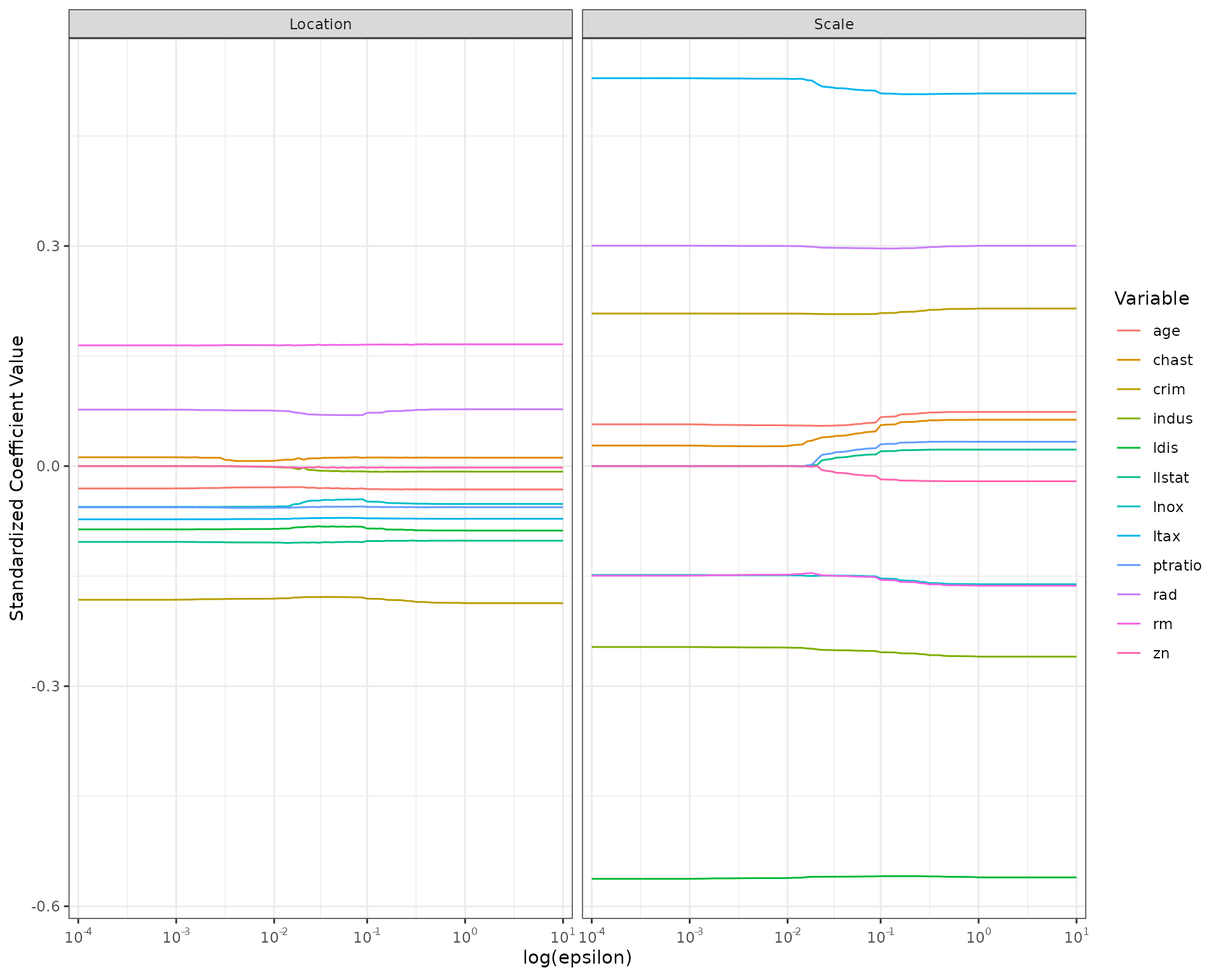
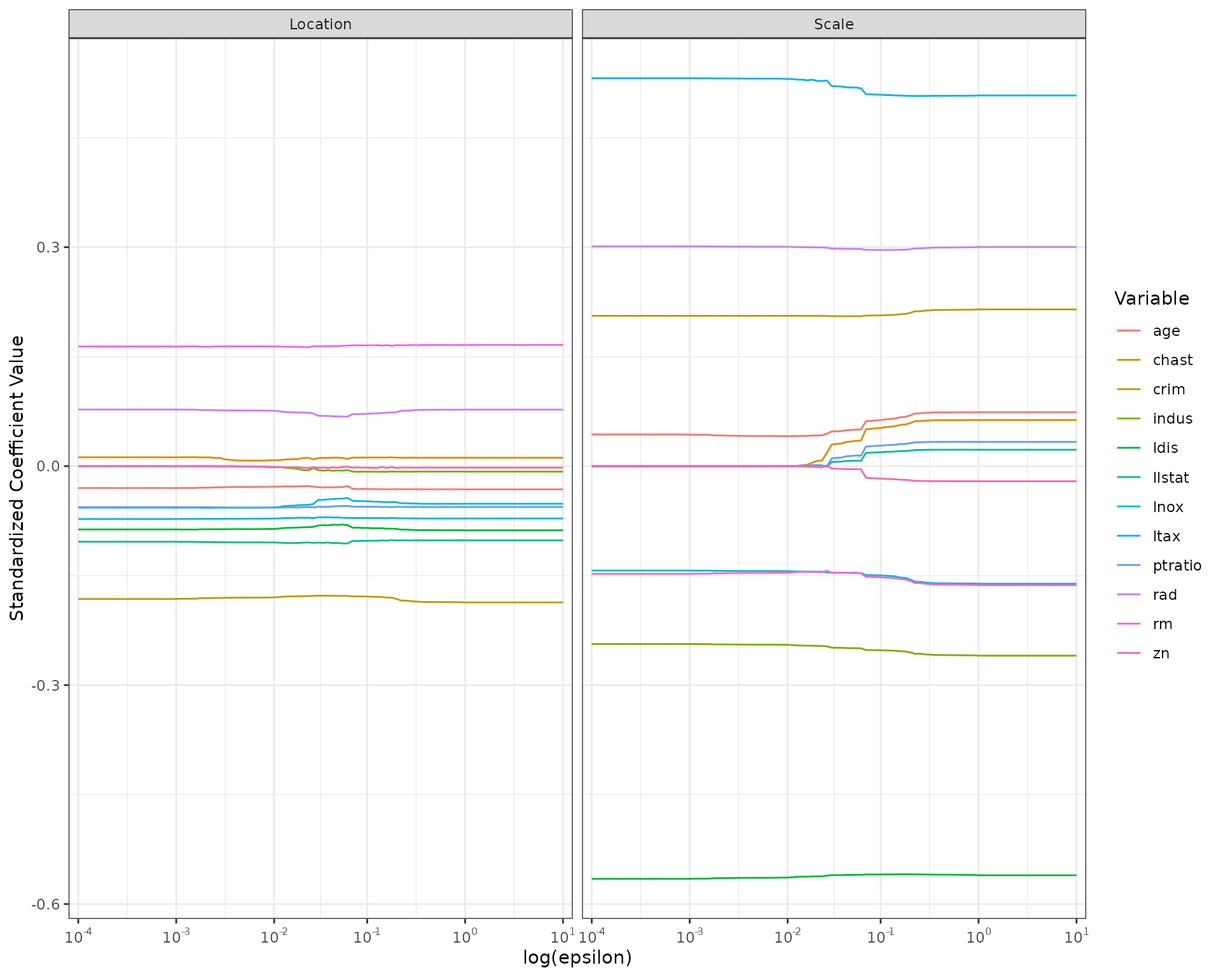
Deploying to gh-pages from @ meadhbh-oneill/smoothic@fb91a2e4ae36edfd9f75e9ffedf8332147a76bd6 🚀

diff --git a/reference/predict.smoothic.html b/reference/predict.smoothic.html
@@ -99,131 +99,131 @@ of a call to <code><a href="smoothic.html">smoothic</a></code>.</p></dd>
 <span class="r-in"><span><span class="op">)</span></span></span>
 <span class="r-in"><span><span class="fu"><a href="https://rdrr.io/r/stats/predict.html" class="external-link">predict</a></span><span class="op">(</span><span class="va">results</span><span class="op">)</span></span></span>
 <span class="r-out co"><span class="r-pr">#&gt;</span>           mu        s</span>
-<span class="r-out co"><span class="r-pr">#&gt;</span> 1   23.76345 1.060816</span>
-<span class="r-out co"><span class="r-pr">#&gt;</span> 2   26.10793 2.071384</span>
-<span class="r-out co"><span class="r-pr">#&gt;</span> 3   27.55003 3.139367</span>
-<span class="r-out co"><span class="r-pr">#&gt;</span> 4   26.91465 2.702051</span>
-<span class="r-out co"><span class="r-pr">#&gt;</span> 5   26.34235 1.846596</span>
-<span class="r-out co"><span class="r-pr">#&gt;</span> 6   22.95108 1.598818</span>
-<span class="r-out co"><span class="r-pr">#&gt;</span> 7   21.86429 1.702663</span>
-<span class="r-out co"><span class="r-pr">#&gt;</span> 8   22.24308 1.750391</span>
-<span class="r-out co"><span class="r-pr">#&gt;</span> 9   25.79568 3.277637</span>
-<span class="r-out co"><span class="r-pr">#&gt;</span> 10  24.70280 3.504933</span>
-<span class="r-out co"><span class="r-pr">#&gt;</span> 11  25.11508 3.693324</span>
-<span class="r-out co"><span class="r-pr">#&gt;</span> 12  24.90677 4.228457</span>
-<span class="r-out co"><span class="r-pr">#&gt;</span> 13  27.57178 3.383851</span>
-<span class="r-out co"><span class="r-pr">#&gt;</span> 14  27.58482 2.966560</span>
-<span class="r-out co"><span class="r-pr">#&gt;</span> 15  27.46392 3.006551</span>
-<span class="r-out co"><span class="r-pr">#&gt;</span> 16  28.32327 3.563724</span>
-<span class="r-out co"><span class="r-pr">#&gt;</span> 17  21.28675 1.895099</span>
-<span class="r-out co"><span class="r-pr">#&gt;</span> 18  21.13106 1.812994</span>
-<span class="r-out co"><span class="r-pr">#&gt;</span> 19  20.42176 1.779589</span>
-<span class="r-out co"><span class="r-pr">#&gt;</span> 20  20.78706 1.771232</span>
-<span class="r-out co"><span class="r-pr">#&gt;</span> 21  32.27688 3.542525</span>
-<span class="r-out co"><span class="r-pr">#&gt;</span> 22  32.77657 3.512174</span>
-<span class="r-out co"><span class="r-pr">#&gt;</span> 23  33.58068 3.572284</span>
-<span class="r-out co"><span class="r-pr">#&gt;</span> 24  33.81074 3.493794</span>
-<span class="r-out co"><span class="r-pr">#&gt;</span> 25  33.81074 3.493794</span>
-<span class="r-out co"><span class="r-pr">#&gt;</span> 26  33.81074 3.493794</span>
-<span class="r-out co"><span class="r-pr">#&gt;</span> 27  32.22643 4.276358</span>
-<span class="r-out co"><span class="r-pr">#&gt;</span> 28  31.91591 3.762063</span>
-<span class="r-out co"><span class="r-pr">#&gt;</span> 29  31.68586 3.619097</span>
-<span class="r-out co"><span class="r-pr">#&gt;</span> 30  32.78613 3.618749</span>
-<span class="r-out co"><span class="r-pr">#&gt;</span> 31  32.69872 3.935147</span>
-<span class="r-out co"><span class="r-pr">#&gt;</span> 32  32.61131 4.246725</span>
-<span class="r-out co"><span class="r-pr">#&gt;</span> 33  32.23252 3.656777</span>
-<span class="r-out co"><span class="r-pr">#&gt;</span> 34  32.46258 3.801232</span>
-<span class="r-out co"><span class="r-pr">#&gt;</span> 35  31.84894 4.138479</span>
-<span class="r-out co"><span class="r-pr">#&gt;</span> 36  32.12467 3.533120</span>
-<span class="r-out co"><span class="r-pr">#&gt;</span> 37  31.76762 3.848289</span>
-<span class="r-out co"><span class="r-pr">#&gt;</span> 38  30.79564 3.908630</span>
-<span class="r-out co"><span class="r-pr">#&gt;</span> 39  31.63933 3.703605</span>
-<span class="r-out co"><span class="r-pr">#&gt;</span> 40  31.86938 3.849909</span>
-<span class="r-out co"><span class="r-pr">#&gt;</span> 41  32.42300 3.530345</span>
-<span class="r-out co"><span class="r-pr">#&gt;</span> 42  32.65306 3.669805</span>
-<span class="r-out co"><span class="r-pr">#&gt;</span> 43  31.82981 3.917915</span>
-<span class="r-out co"><span class="r-pr">#&gt;</span> 44  31.47146 3.572462</span>
-<span class="r-out co"><span class="r-pr">#&gt;</span> 45  24.08313 2.048031</span>
-<span class="r-out co"><span class="r-pr">#&gt;</span> 46  23.41557 2.216904</span>
-<span class="r-out co"><span class="r-pr">#&gt;</span> 47  25.71049 2.105657</span>
-<span class="r-out co"><span class="r-pr">#&gt;</span> 48  21.94172 3.770360</span>
-<span class="r-out co"><span class="r-pr">#&gt;</span> 49  20.52267 3.203077</span>
-<span class="r-out co"><span class="r-pr">#&gt;</span> 50  30.28291 3.716949</span>
-<span class="r-out co"><span class="r-pr">#&gt;</span> 51  30.93219 3.867892</span>
-<span class="r-out co"><span class="r-pr">#&gt;</span> 52  30.95263 3.853611</span>
-<span class="r-out co"><span class="r-pr">#&gt;</span> 53  31.52669 3.947007</span>
-<span class="r-out co"><span class="r-pr">#&gt;</span> 54  32.08640 3.860373</span>
-<span class="r-out co"><span class="r-pr">#&gt;</span> 55  31.61410 3.713585</span>
-<span class="r-out co"><span class="r-pr">#&gt;</span> 56  31.18269 4.005841</span>
-<span class="r-out co"><span class="r-pr">#&gt;</span> 57  42.78604 4.536706</span>
-<span class="r-out co"><span class="r-pr">#&gt;</span> 58  41.96410 6.291468</span>
-<span class="r-out co"><span class="r-pr">#&gt;</span> 59  43.64192 2.072561</span>
-<span class="r-out co"><span class="r-pr">#&gt;</span> 60  44.56214 2.419973</span>
-<span class="r-out co"><span class="r-pr">#&gt;</span> 61  51.97569 6.996274</span>
-<span class="r-out co"><span class="r-pr">#&gt;</span> 62  53.09727 7.285241</span>
-<span class="r-out co"><span class="r-pr">#&gt;</span> 63  53.09727 7.285241</span>
-<span class="r-out co"><span class="r-pr">#&gt;</span> 64  53.09727 7.285241</span>
-<span class="r-out co"><span class="r-pr">#&gt;</span> 65  51.61256 7.651830</span>
-<span class="r-out co"><span class="r-pr">#&gt;</span> 66  52.16008 7.545797</span>
-<span class="r-out co"><span class="r-pr">#&gt;</span> 67  32.78004 4.384806</span>
-<span class="r-out co"><span class="r-pr">#&gt;</span> 68  30.15939 4.320996</span>
-<span class="r-out co"><span class="r-pr">#&gt;</span> 69  30.73214 3.733331</span>
-<span class="r-out co"><span class="r-pr">#&gt;</span> 70  30.24680 4.065457</span>
-<span class="r-out co"><span class="r-pr">#&gt;</span> 71  23.85393 2.743848</span>
-<span class="r-out co"><span class="r-pr">#&gt;</span> 72  22.90848 2.765166</span>
-<span class="r-out co"><span class="r-pr">#&gt;</span> 73  41.71838 5.928053</span>
-<span class="r-out co"><span class="r-pr">#&gt;</span> 74  40.64464 5.576902</span>
-<span class="r-out co"><span class="r-pr">#&gt;</span> 75  38.33754 5.830585</span>
-<span class="r-out co"><span class="r-pr">#&gt;</span> 76  39.64264 7.185713</span>
-<span class="r-out co"><span class="r-pr">#&gt;</span> 77  46.71613 9.164851</span>
-<span class="r-out co"><span class="r-pr">#&gt;</span> 78  47.91077 8.190933</span>
-<span class="r-out co"><span class="r-pr">#&gt;</span> 79  48.22824 7.889800</span>
-<span class="r-out co"><span class="r-pr">#&gt;</span> 80  31.37926 3.851440</span>
-<span class="r-out co"><span class="r-pr">#&gt;</span> 81  31.74370 4.080225</span>
-<span class="r-out co"><span class="r-pr">#&gt;</span> 82  31.23662 3.485963</span>
-<span class="r-out co"><span class="r-pr">#&gt;</span> 83  31.29185 4.156390</span>
-<span class="r-out co"><span class="r-pr">#&gt;</span> 84  30.69735 3.832200</span>
-<span class="r-out co"><span class="r-pr">#&gt;</span> 85  30.35335 4.009693</span>
-<span class="r-out co"><span class="r-pr">#&gt;</span> 86  30.75128 3.796082</span>
-<span class="r-out co"><span class="r-pr">#&gt;</span> 87  30.75128 3.796082</span>
-<span class="r-out co"><span class="r-pr">#&gt;</span> 88  30.83869 3.682123</span>
-<span class="r-out co"><span class="r-pr">#&gt;</span> 89  30.98133 3.946039</span>
-<span class="r-out co"><span class="r-pr">#&gt;</span> 90  30.28029 4.462974</span>
-<span class="r-out co"><span class="r-pr">#&gt;</span> 91  31.12398 4.393100</span>
-<span class="r-out co"><span class="r-pr">#&gt;</span> 92  31.55408 3.514886</span>
-<span class="r-out co"><span class="r-pr">#&gt;</span> 93  32.32341 3.323623</span>
-<span class="r-out co"><span class="r-pr">#&gt;</span> 94  31.37926 3.880900</span>
-<span class="r-out co"><span class="r-pr">#&gt;</span> 95  30.89392 4.226153</span>
-<span class="r-out co"><span class="r-pr">#&gt;</span> 96  30.58341 4.168089</span>
-<span class="r-out co"><span class="r-pr">#&gt;</span> 97  30.36770 4.328995</span>
-<span class="r-out co"><span class="r-pr">#&gt;</span> 98  31.29185 4.156390</span>
-<span class="r-out co"><span class="r-pr">#&gt;</span> 99  31.37926 3.880900</span>
-<span class="r-out co"><span class="r-pr">#&gt;</span> 100 30.26594 4.133790</span>
-<span class="r-out co"><span class="r-pr">#&gt;</span> 101 30.83869 3.682123</span>
-<span class="r-out co"><span class="r-pr">#&gt;</span> 102 30.26594 4.133790</span>
-<span class="r-out co"><span class="r-pr">#&gt;</span> 103 30.75128 3.796082</span>
-<span class="r-out co"><span class="r-pr">#&gt;</span> 104 30.26594 4.133790</span>
-<span class="r-out co"><span class="r-pr">#&gt;</span> 105 30.75128 3.796082</span>
-<span class="r-out co"><span class="r-pr">#&gt;</span> 106 30.66387 4.065551</span>
-<span class="r-out co"><span class="r-pr">#&gt;</span> 107 30.05023 4.293373</span>
-<span class="r-out co"><span class="r-pr">#&gt;</span> 108 30.49600 4.297088</span>
-<span class="r-out co"><span class="r-pr">#&gt;</span> 109 33.30148 4.353311</span>
-<span class="r-out co"><span class="r-pr">#&gt;</span> 110 33.73159 3.456612</span>
-<span class="r-out co"><span class="r-pr">#&gt;</span> 111 33.33366 3.514630</span>
-<span class="r-out co"><span class="r-pr">#&gt;</span> 112 19.45369 2.169892</span>
-<span class="r-out co"><span class="r-pr">#&gt;</span> 113 19.06881 2.119439</span>
-<span class="r-out co"><span class="r-pr">#&gt;</span> 114 18.85311 2.086920</span>
-<span class="r-out co"><span class="r-pr">#&gt;</span> 115 18.46822 2.150076</span>
-<span class="r-out co"><span class="r-pr">#&gt;</span> 116 18.92008 1.911615</span>
-<span class="r-out co"><span class="r-pr">#&gt;</span> 117 18.75830 1.966700</span>
-<span class="r-out co"><span class="r-pr">#&gt;</span> 118 19.04359 2.364395</span>
-<span class="r-out co"><span class="r-pr">#&gt;</span> 119 19.15013 1.987130</span>
-<span class="r-out co"><span class="r-pr">#&gt;</span> 120 18.46822 2.150076</span>
-<span class="r-out co"><span class="r-pr">#&gt;</span> 121 21.29284 2.052320</span>
-<span class="r-out co"><span class="r-pr">#&gt;</span> 122 21.61640 1.938964</span>
-<span class="r-out co"><span class="r-pr">#&gt;</span> 123 22.33789 1.734279</span>
-<span class="r-out co"><span class="r-pr">#&gt;</span> 124 21.44158 1.983800</span>
-<span class="r-out co"><span class="r-pr">#&gt;</span> 125 21.67163 2.062166</span>
+<span class="r-out co"><span class="r-pr">#&gt;</span> 1   23.73024 1.010112</span>
+<span class="r-out co"><span class="r-pr">#&gt;</span> 2   26.07308 2.020696</span>
+<span class="r-out co"><span class="r-pr">#&gt;</span> 3   27.52946 3.135873</span>
+<span class="r-out co"><span class="r-pr">#&gt;</span> 4   26.88822 2.671811</span>
+<span class="r-out co"><span class="r-pr">#&gt;</span> 5   26.31907 1.798780</span>
+<span class="r-out co"><span class="r-pr">#&gt;</span> 6   22.92405 1.565104</span>
+<span class="r-out co"><span class="r-pr">#&gt;</span> 7   21.83871 1.682448</span>
+<span class="r-out co"><span class="r-pr">#&gt;</span> 8   22.22059 1.729886</span>
+<span class="r-out co"><span class="r-pr">#&gt;</span> 9   25.77555 3.299793</span>
+<span class="r-out co"><span class="r-pr">#&gt;</span> 10  24.68304 3.555869</span>
+<span class="r-out co"><span class="r-pr">#&gt;</span> 11  25.09690 3.755235</span>
+<span class="r-out co"><span class="r-pr">#&gt;</span> 12  24.89318 4.347321</span>
+<span class="r-out co"><span class="r-pr">#&gt;</span> 13  27.55603 3.393922</span>
+<span class="r-out co"><span class="r-pr">#&gt;</span> 14  27.56611 2.943488</span>
+<span class="r-out co"><span class="r-pr">#&gt;</span> 15  27.44825 2.986425</span>
+<span class="r-out co"><span class="r-pr">#&gt;</span> 16  28.31262 3.567249</span>
+<span class="r-out co"><span class="r-pr">#&gt;</span> 17  21.26532 1.881589</span>
+<span class="r-out co"><span class="r-pr">#&gt;</span> 18  21.11083 1.797198</span>
+<span class="r-out co"><span class="r-pr">#&gt;</span> 19  20.40271 1.768715</span>
+<span class="r-out co"><span class="r-pr">#&gt;</span> 20  20.76559 1.752554</span>
+<span class="r-out co"><span class="r-pr">#&gt;</span> 21  32.29267 3.548556</span>
+<span class="r-out co"><span class="r-pr">#&gt;</span> 22  32.79240 3.508289</span>
+<span class="r-out co"><span class="r-pr">#&gt;</span> 23  33.59822 3.558374</span>
+<span class="r-out co"><span class="r-pr">#&gt;</span> 24  33.82851 3.466691</span>
+<span class="r-out co"><span class="r-pr">#&gt;</span> 25  33.82851 3.466691</span>
+<span class="r-out co"><span class="r-pr">#&gt;</span> 26  33.82851 3.466691</span>
+<span class="r-out co"><span class="r-pr">#&gt;</span> 27  32.24383 4.315213</span>
+<span class="r-out co"><span class="r-pr">#&gt;</span> 28  31.93057 3.756791</span>
+<span class="r-out co"><span class="r-pr">#&gt;</span> 29  31.70028 3.609989</span>
+<span class="r-out co"><span class="r-pr">#&gt;</span> 30  32.80462 3.601584</span>
+<span class="r-out co"><span class="r-pr">#&gt;</span> 31  32.71875 3.943520</span>
+<span class="r-out co"><span class="r-pr">#&gt;</span> 32  32.63288 4.282463</span>
+<span class="r-out co"><span class="r-pr">#&gt;</span> 33  32.25100 3.650248</span>
+<span class="r-out co"><span class="r-pr">#&gt;</span> 34  32.48129 3.798688</span>
+<span class="r-out co"><span class="r-pr">#&gt;</span> 35  31.86661 4.165089</span>
+<span class="r-out co"><span class="r-pr">#&gt;</span> 36  32.14322 3.516922</span>
+<span class="r-out co"><span class="r-pr">#&gt;</span> 37  31.78791 3.857758</span>
+<span class="r-out co"><span class="r-pr">#&gt;</span> 38  30.81325 3.931877</span>
+<span class="r-out co"><span class="r-pr">#&gt;</span> 39  31.65822 3.701174</span>
+<span class="r-out co"><span class="r-pr">#&gt;</span> 40  31.88851 3.851684</span>
+<span class="r-out co"><span class="r-pr">#&gt;</span> 41  32.44214 3.499551</span>
+<span class="r-out co"><span class="r-pr">#&gt;</span> 42  32.67243 3.641862</span>
+<span class="r-out co"><span class="r-pr">#&gt;</span> 43  31.84936 3.917426</span>
+<span class="r-out co"><span class="r-pr">#&gt;</span> 44  31.48939 3.552484</span>
+<span class="r-out co"><span class="r-pr">#&gt;</span> 45  24.09821 2.044922</span>
+<span class="r-out co"><span class="r-pr">#&gt;</span> 46  23.42964 2.228225</span>
+<span class="r-out co"><span class="r-pr">#&gt;</span> 47  25.72710 2.093945</span>
+<span class="r-out co"><span class="r-pr">#&gt;</span> 48  21.96205 3.943120</span>
+<span class="r-out co"><span class="r-pr">#&gt;</span> 49  20.53689 3.326342</span>
+<span class="r-out co"><span class="r-pr">#&gt;</span> 50  30.30344 3.731401</span>
+<span class="r-out co"><span class="r-pr">#&gt;</span> 51  30.95050 3.871732</span>
+<span class="r-out co"><span class="r-pr">#&gt;</span> 52  30.97240 3.856205</span>
+<span class="r-out co"><span class="r-pr">#&gt;</span> 53  31.54793 3.949035</span>
+<span class="r-out co"><span class="r-pr">#&gt;</span> 54  32.10873 3.854965</span>
+<span class="r-out co"><span class="r-pr">#&gt;</span> 55  31.63380 3.696948</span>
+<span class="r-out co"><span class="r-pr">#&gt;</span> 56  31.20269 4.013020</span>
+<span class="r-out co"><span class="r-pr">#&gt;</span> 57  42.84352 4.554228</span>
+<span class="r-out co"><span class="r-pr">#&gt;</span> 58  42.02511 6.488188</span>
+<span class="r-out co"><span class="r-pr">#&gt;</span> 59  43.69563 1.982669</span>
+<span class="r-out co"><span class="r-pr">#&gt;</span> 60  44.61680 2.325386</span>
+<span class="r-out co"><span class="r-pr">#&gt;</span> 61  52.03959 6.908159</span>
+<span class="r-out co"><span class="r-pr">#&gt;</span> 62  53.16157 7.172456</span>
+<span class="r-out co"><span class="r-pr">#&gt;</span> 63  53.16157 7.172456</span>
+<span class="r-out co"><span class="r-pr">#&gt;</span> 64  53.16157 7.172456</span>
+<span class="r-out co"><span class="r-pr">#&gt;</span> 65  51.67710 7.596182</span>
+<span class="r-out co"><span class="r-pr">#&gt;</span> 66  52.22355 7.451545</span>
+<span class="r-out co"><span class="r-pr">#&gt;</span> 67  32.80465 4.361844</span>
+<span class="r-out co"><span class="r-pr">#&gt;</span> 68  30.18346 4.347439</span>
+<span class="r-out co"><span class="r-pr">#&gt;</span> 69  30.75434 3.711114</span>
+<span class="r-out co"><span class="r-pr">#&gt;</span> 70  30.26934 4.069920</span>
+<span class="r-out co"><span class="r-pr">#&gt;</span> 71  23.87085 2.761193</span>
+<span class="r-out co"><span class="r-pr">#&gt;</span> 72  22.92527 2.796120</span>
+<span class="r-out co"><span class="r-pr">#&gt;</span> 73  41.78262 6.034589</span>
+<span class="r-out co"><span class="r-pr">#&gt;</span> 74  40.70736 5.672669</span>
+<span class="r-out co"><span class="r-pr">#&gt;</span> 75  38.39555 5.966792</span>
+<span class="r-out co"><span class="r-pr">#&gt;</span> 76  39.70577 7.418645</span>
+<span class="r-out co"><span class="r-pr">#&gt;</span> 77  46.78290 9.296929</span>
+<span class="r-out co"><span class="r-pr">#&gt;</span> 78  47.97602 8.198046</span>
+<span class="r-out co"><span class="r-pr">#&gt;</span> 79  48.29218 7.856191</span>
+<span class="r-out co"><span class="r-pr">#&gt;</span> 80  31.40100 3.837960</span>
+<span class="r-out co"><span class="r-pr">#&gt;</span> 81  31.76815 4.084929</span>
+<span class="r-out co"><span class="r-pr">#&gt;</span> 82  31.25658 3.452563</span>
+<span class="r-out co"><span class="r-pr">#&gt;</span> 83  31.31513 4.167830</span>
+<span class="r-out co"><span class="r-pr">#&gt;</span> 84  30.71769 3.825398</span>
+<span class="r-out co"><span class="r-pr">#&gt;</span> 85  30.37246 4.017731</span>
+<span class="r-out co"><span class="r-pr">#&gt;</span> 86  30.77158 3.786371</span>
+<span class="r-out co"><span class="r-pr">#&gt;</span> 87  30.77158 3.786371</span>
+<span class="r-out co"><span class="r-pr">#&gt;</span> 88  30.85745 3.663526</span>
+<span class="r-out co"><span class="r-pr">#&gt;</span> 89  31.00187 3.940346</span>
+<span class="r-out co"><span class="r-pr">#&gt;</span> 90  30.30132 4.502252</span>
+<span class="r-out co"><span class="r-pr">#&gt;</span> 91  31.14629 4.416458</span>
+<span class="r-out co"><span class="r-pr">#&gt;</span> 92  31.57275 3.476394</span>
+<span class="r-out co"><span class="r-pr">#&gt;</span> 93  32.34192 3.265166</span>
+<span class="r-out co"><span class="r-pr">#&gt;</span> 94  31.40100 3.869737</span>
+<span class="r-out co"><span class="r-pr">#&gt;</span> 95  30.91600 4.243878</span>
+<span class="r-out co"><span class="r-pr">#&gt;</span> 96  30.60275 4.181114</span>
+<span class="r-out co"><span class="r-pr">#&gt;</span> 97  30.38719 4.356182</span>
+<span class="r-out co"><span class="r-pr">#&gt;</span> 98  31.31513 4.167830</span>
+<span class="r-out co"><span class="r-pr">#&gt;</span> 99  31.40100 3.869737</span>
+<span class="r-out co"><span class="r-pr">#&gt;</span> 100 30.28658 4.152452</span>
+<span class="r-out co"><span class="r-pr">#&gt;</span> 101 30.85745 3.663526</span>
+<span class="r-out co"><span class="r-pr">#&gt;</span> 102 30.28658 4.152452</span>
+<span class="r-out co"><span class="r-pr">#&gt;</span> 103 30.77158 3.786371</span>
+<span class="r-out co"><span class="r-pr">#&gt;</span> 104 30.28658 4.152452</span>
+<span class="r-out co"><span class="r-pr">#&gt;</span> 105 30.77158 3.786371</span>
+<span class="r-out co"><span class="r-pr">#&gt;</span> 106 30.68571 4.078042</span>
+<span class="r-out co"><span class="r-pr">#&gt;</span> 107 30.07103 4.326320</span>
+<span class="r-out co"><span class="r-pr">#&gt;</span> 108 30.51687 4.321314</span>
+<span class="r-out co"><span class="r-pr">#&gt;</span> 109 33.32375 4.371754</span>
+<span class="r-out co"><span class="r-pr">#&gt;</span> 110 33.75021 3.412948</span>
+<span class="r-out co"><span class="r-pr">#&gt;</span> 111 33.35108 3.475222</span>
+<span class="r-out co"><span class="r-pr">#&gt;</span> 112 19.44203 2.183341</span>
+<span class="r-out co"><span class="r-pr">#&gt;</span> 113 19.05297 2.128661</span>
+<span class="r-out co"><span class="r-pr">#&gt;</span> 114 18.83742 2.093408</span>
+<span class="r-out co"><span class="r-pr">#&gt;</span> 115 18.44837 2.162247</span>
+<span class="r-out co"><span class="r-pr">#&gt;</span> 116 18.90138 1.903827</span>
+<span class="r-out co"><span class="r-pr">#&gt;</span> 117 18.73972 1.963306</span>
+<span class="r-out co"><span class="r-pr">#&gt;</span> 118 19.02856 2.386402</span>
+<span class="r-out co"><span class="r-pr">#&gt;</span> 119 19.13168 1.981247</span>
+<span class="r-out co"><span class="r-pr">#&gt;</span> 120 18.44837 2.162247</span>
+<span class="r-out co"><span class="r-pr">#&gt;</span> 121 21.27249 2.055202</span>
+<span class="r-out co"><span class="r-pr">#&gt;</span> 122 21.59583 1.932562</span>
+<span class="r-out co"><span class="r-pr">#&gt;</span> 123 22.31829 1.712595</span>
+<span class="r-out co"><span class="r-pr">#&gt;</span> 124 21.42408 1.980963</span>
+<span class="r-out co"><span class="r-pr">#&gt;</span> 125 21.65437 2.061520</span>
 <span class="r-in"><span></span></span>
 </code></pre></div>
     </div>

diff --git a/articles/sgnd-boston.html b/articles/sgnd-boston.html
@@ -115,40 +115,40 @@ criterion.</p>
 <span><span class="co">#&gt; </span></span>
 <span><span class="co">#&gt; Coefficients:</span></span>
 <span><span class="co">#&gt;                      Estimate         SEE        Z    Pvalue    </span></span>
-<span><span class="co">#&gt; intercept_0_beta   3.61044427  0.06216407  58.0793 &lt; 2.2e-16 ***</span></span>
-<span><span class="co">#&gt; crim_1_beta       -0.02118366  0.00521143  -4.0648 5.523e-05 ***</span></span>
+<span><span class="co">#&gt; intercept_0_beta   3.61042411  0.06909363  52.2541 &lt; 2.2e-16 ***</span></span>
+<span><span class="co">#&gt; crim_1_beta       -0.02115800  0.00516411  -4.0971 5.023e-05 ***</span></span>
 <span><span class="co">#&gt; zn_2_beta                   0           0        0         0    </span></span>
 <span><span class="co">#&gt; indus_3_beta                0           0        0         0    </span></span>
-<span><span class="co">#&gt; rm_4_beta          0.23432703  0.01005602  23.3022 &lt; 2.2e-16 ***</span></span>
-<span><span class="co">#&gt; age_5_beta        -0.00108287  0.00034126  -3.1731 0.0010159 ** </span></span>
-<span><span class="co">#&gt; rad_6_beta         0.00883987  0.00230240   3.8394 0.0001196 ***</span></span>
-<span><span class="co">#&gt; ptratio_7_beta    -0.02595343  0.00259781  -9.9905 &lt; 2.2e-16 ***</span></span>
-<span><span class="co">#&gt; lnox_8_beta       -0.27596384  0.08565991  -3.2216 0.0008743 ***</span></span>
-<span><span class="co">#&gt; ldis_9_beta       -0.15979242  0.02289373  -6.9797 3.827e-10 ***</span></span>
-<span><span class="co">#&gt; ltax_10_beta      -0.18305620  0.01788194 -10.2369 &lt; 2.2e-16 ***</span></span>
-<span><span class="co">#&gt; llstat_11_beta    -0.17189746  0.01754920  -9.7952 &lt; 2.2e-16 ***</span></span>
-<span><span class="co">#&gt; chast_12_beta      0.04742476  0.02044784   2.3193 0.0114398 *  </span></span>
-<span><span class="co">#&gt; intercept_0_alpha -9.65560109  2.33819898  -4.1295 4.404e-05 ***</span></span>
-<span><span class="co">#&gt; crim_1_alpha       0.02418315  0.01595108   1.5161 0.0774511 .  </span></span>
+<span><span class="co">#&gt; rm_4_beta          0.23340587  0.01015929  22.9746 &lt; 2.2e-16 ***</span></span>
+<span><span class="co">#&gt; age_5_beta        -0.00106372  0.00034281  -3.1030 0.0012681 ** </span></span>
+<span><span class="co">#&gt; rad_6_beta         0.00890866  0.00227546   3.9151 9.387e-05 ***</span></span>
+<span><span class="co">#&gt; ptratio_7_beta    -0.02596173  0.00255329 -10.1680 &lt; 2.2e-16 ***</span></span>
+<span><span class="co">#&gt; lnox_8_beta       -0.28248202  0.08211591  -3.4400 0.0004471 ***</span></span>
+<span><span class="co">#&gt; ldis_9_beta       -0.16075627  0.02262858  -7.1041 2.256e-10 ***</span></span>
+<span><span class="co">#&gt; ltax_10_beta      -0.18265103  0.01753703 -10.4152 &lt; 2.2e-16 ***</span></span>
+<span><span class="co">#&gt; llstat_11_beta    -0.17230936  0.01707228 -10.0929 &lt; 2.2e-16 ***</span></span>
+<span><span class="co">#&gt; chast_12_beta      0.04779367  0.01975141   2.4198 0.0088139 ** </span></span>
+<span><span class="co">#&gt; intercept_0_alpha -9.65541675  2.34422502  -4.1188 4.653e-05 ***</span></span>
+<span><span class="co">#&gt; crim_1_alpha       0.02394511  0.01570201   1.5250 0.0761508 .  </span></span>
 <span><span class="co">#&gt; zn_2_alpha                  0           0        0         0    </span></span>
-<span><span class="co">#&gt; indus_3_alpha     -0.03593507  0.02212563  -1.6241 0.0612273 .  </span></span>
-<span><span class="co">#&gt; rm_4_alpha        -0.21260532  0.10602689  -2.0052 0.0252643 *  </span></span>
-<span><span class="co">#&gt; age_5_alpha        0.00202455  0.00375011   0.5399 0.4561068    </span></span>
-<span><span class="co">#&gt; rad_6_alpha        0.03450701  0.01745587   1.9768 0.0270406 *  </span></span>
+<span><span class="co">#&gt; indus_3_alpha     -0.03551832  0.02188810  -1.6227 0.0615259 .  </span></span>
+<span><span class="co">#&gt; rm_4_alpha        -0.20998531  0.10113403  -2.0763 0.0213123 *  </span></span>
+<span><span class="co">#&gt; age_5_alpha        0.00154271  0.00375396   0.4110 0.5474138    </span></span>
+<span><span class="co">#&gt; rad_6_alpha        0.03458412  0.01742207   1.9851 0.0266242 *  </span></span>
 <span><span class="co">#&gt; ptratio_7_alpha             0           0        0         0    </span></span>
-<span><span class="co">#&gt; lnox_8_alpha      -0.73639081  0.83268318  -0.8844 0.2635357    </span></span>
-<span><span class="co">#&gt; ldis_9_alpha      -1.04264258  0.27821395  -3.7476 0.0001622 ***</span></span>
-<span><span class="co">#&gt; ltax_10_alpha      1.33406801  0.38896662   3.4298 0.0004563 ***</span></span>
+<span><span class="co">#&gt; lnox_8_alpha      -0.71002431  0.82988751  -0.8556 0.2767668    </span></span>
+<span><span class="co">#&gt; ldis_9_alpha      -1.04800412  0.27798565  -3.7700 0.0001528 ***</span></span>
+<span><span class="co">#&gt; ltax_10_alpha      1.34119006  0.38848565   3.4524 0.0004303 ***</span></span>
 <span><span class="co">#&gt; llstat_11_alpha             0           0        0         0    </span></span>
-<span><span class="co">#&gt; chast_12_alpha     0.11052718  0.29627589   0.3731 0.5756261    </span></span>
-<span><span class="co">#&gt; nu_0               0.30659864  0.10431138   2.9393 0.0020472 ** </span></span>
+<span><span class="co">#&gt; chast_12_alpha              0           0        0         0    </span></span>
+<span><span class="co">#&gt; nu_0               0.30574859  0.10364197   2.9500 0.0019987 ** </span></span>
 <span><span class="co">#&gt; ---</span></span>
 <span><span class="co">#&gt; Signif. codes:  0 '***' 0.001 '**' 0.01 '*' 0.05 '.' 0.1 ' ' 1</span></span>
 <span><span class="co">#&gt; Penalized Likelihood:</span></span>
-<span><span class="co">#&gt; [1] 215.5409</span></span>
+<span><span class="co">#&gt; [1] 218.3614</span></span>
 <span></span>
 <span><span class="va">fit</span><span class="op">$</span><span class="va">kappa</span> <span class="co"># shape estimate</span></span>
-<span><span class="co">#&gt; [1] 1.558795</span></span></code></pre></div>
+<span><span class="co">#&gt; [1] 1.557641</span></span></code></pre></div>
 <p>Plot the standardized coefficient values with respect to the
 epsilon-telescope.</p>
 <div class="sourceCode" id="cb4"><pre class="downlit sourceCode r">

diff --git a/reference/summary.smoothic.html b/reference/summary.smoothic.html
@@ -106,19 +106,21 @@ of a call to <code><a href="smoothic.html">smoothic</a></code>.</p></dd>
 <span class="r-out co"><span class="r-pr">#&gt;</span> [1] "mpr"</span>
 <span class="r-out co"><span class="r-pr">#&gt;</span> </span>
 <span class="r-out co"><span class="r-pr">#&gt;</span> Coefficients:</span>
-<span class="r-out co"><span class="r-pr">#&gt;</span>                    Estimate       SEE       Z Pvalue</span>
-<span class="r-out co"><span class="r-pr">#&gt;</span> intercept_0_beta  -0.201200  0.894967 -0.2248 0.5196</span>
-<span class="r-out co"><span class="r-pr">#&gt;</span> tanktemp_1_beta   -0.087412       NaN     NaN      0</span>
-<span class="r-out co"><span class="r-pr">#&gt;</span> gastemp_2_beta     0.230056       NaN     NaN      0</span>
-<span class="r-out co"><span class="r-pr">#&gt;</span> tankpres_3_beta           0         0       0      0</span>
-<span class="r-out co"><span class="r-pr">#&gt;</span> gaspres_4_beta     5.392648       NaN     NaN      0</span>
-<span class="r-out co"><span class="r-pr">#&gt;</span> intercept_0_alpha -0.401254       NaN     NaN      0</span>
-<span class="r-out co"><span class="r-pr">#&gt;</span> tanktemp_1_alpha          0         0       0      0</span>
-<span class="r-out co"><span class="r-pr">#&gt;</span> gastemp_2_alpha    0.077486       NaN     NaN      0</span>
-<span class="r-out co"><span class="r-pr">#&gt;</span> tankpres_3_alpha   1.523997       NaN     NaN      0</span>
-<span class="r-out co"><span class="r-pr">#&gt;</span> gaspres_4_alpha   -1.893893       NaN     NaN      0</span>
+<span class="r-out co"><span class="r-pr">#&gt;</span>                    Estimate       SEE       Z    Pvalue    </span>
+<span class="r-out co"><span class="r-pr">#&gt;</span> intercept_0_beta  -0.272151  0.898086 -0.3030    0.4628    </span>
+<span class="r-out co"><span class="r-pr">#&gt;</span> tanktemp_1_beta   -0.085872       NaN     NaN         0    </span>
+<span class="r-out co"><span class="r-pr">#&gt;</span> gastemp_2_beta     0.230290       NaN     NaN         0    </span>
+<span class="r-out co"><span class="r-pr">#&gt;</span> tankpres_3_beta           0         0       0         0    </span>
+<span class="r-out co"><span class="r-pr">#&gt;</span> gaspres_4_beta     5.388885       NaN     NaN         0    </span>
+<span class="r-out co"><span class="r-pr">#&gt;</span> intercept_0_alpha -0.400254       NaN     NaN         0    </span>
+<span class="r-out co"><span class="r-pr">#&gt;</span> tanktemp_1_alpha          0         0       0         0    </span>
+<span class="r-out co"><span class="r-pr">#&gt;</span> gastemp_2_alpha    0.079721  0.012142  6.5658 &lt; 2.2e-16 ***</span>
+<span class="r-out co"><span class="r-pr">#&gt;</span> tankpres_3_alpha   1.649090  0.533768  3.0895 8.586e-06 ***</span>
+<span class="r-out co"><span class="r-pr">#&gt;</span> gaspres_4_alpha   -2.050912  0.657912 -3.1173 7.203e-06 ***</span>
+<span class="r-out co"><span class="r-pr">#&gt;</span> ---</span>
+<span class="r-out co"><span class="r-pr">#&gt;</span> Signif. codes:  0 ‘***’ 0.001 ‘**’ 0.01 ‘*’ 0.05 ‘.’ 0.1 ‘ ’ 1</span>
 <span class="r-out co"><span class="r-pr">#&gt;</span> Penalized Likelihood:</span>
-<span class="r-out co"><span class="r-pr">#&gt;</span> [1] -311.157</span>
+<span class="r-out co"><span class="r-pr">#&gt;</span> [1] -311.0829</span>
 </code></pre></div>
     </div>
   </main><aside class="col-md-3"><nav id="toc"><h2>On this page</h2>

diff --git a/reference/smoothic.html b/reference/smoothic.html
@@ -220,19 +220,21 @@ Automatic Variable Selection. &lt;arXiv:2212.07317&gt;</p>
 <span class="r-out co"><span class="r-pr">#&gt;</span> [1] "mpr"</span>
 <span class="r-out co"><span class="r-pr">#&gt;</span> </span>
 <span class="r-out co"><span class="r-pr">#&gt;</span> Coefficients:</span>
-<span class="r-out co"><span class="r-pr">#&gt;</span>                    Estimate       SEE       Z Pvalue</span>
-<span class="r-out co"><span class="r-pr">#&gt;</span> intercept_0_beta  -0.201200  0.894967 -0.2248 0.5196</span>
-<span class="r-out co"><span class="r-pr">#&gt;</span> tanktemp_1_beta   -0.087412       NaN     NaN      0</span>
-<span class="r-out co"><span class="r-pr">#&gt;</span> gastemp_2_beta     0.230056       NaN     NaN      0</span>
-<span class="r-out co"><span class="r-pr">#&gt;</span> tankpres_3_beta           0         0       0      0</span>
-<span class="r-out co"><span class="r-pr">#&gt;</span> gaspres_4_beta     5.392648       NaN     NaN      0</span>
-<span class="r-out co"><span class="r-pr">#&gt;</span> intercept_0_alpha -0.401254       NaN     NaN      0</span>
-<span class="r-out co"><span class="r-pr">#&gt;</span> tanktemp_1_alpha          0         0       0      0</span>
-<span class="r-out co"><span class="r-pr">#&gt;</span> gastemp_2_alpha    0.077486       NaN     NaN      0</span>
-<span class="r-out co"><span class="r-pr">#&gt;</span> tankpres_3_alpha   1.523997       NaN     NaN      0</span>
-<span class="r-out co"><span class="r-pr">#&gt;</span> gaspres_4_alpha   -1.893893       NaN     NaN      0</span>
+<span class="r-out co"><span class="r-pr">#&gt;</span>                    Estimate       SEE       Z    Pvalue    </span>
+<span class="r-out co"><span class="r-pr">#&gt;</span> intercept_0_beta  -0.272151  0.898086 -0.3030    0.4628    </span>
+<span class="r-out co"><span class="r-pr">#&gt;</span> tanktemp_1_beta   -0.085872       NaN     NaN         0    </span>
+<span class="r-out co"><span class="r-pr">#&gt;</span> gastemp_2_beta     0.230290       NaN     NaN         0    </span>
+<span class="r-out co"><span class="r-pr">#&gt;</span> tankpres_3_beta           0         0       0         0    </span>
+<span class="r-out co"><span class="r-pr">#&gt;</span> gaspres_4_beta     5.388885       NaN     NaN         0    </span>
+<span class="r-out co"><span class="r-pr">#&gt;</span> intercept_0_alpha -0.400254       NaN     NaN         0    </span>
+<span class="r-out co"><span class="r-pr">#&gt;</span> tanktemp_1_alpha          0         0       0         0    </span>
+<span class="r-out co"><span class="r-pr">#&gt;</span> gastemp_2_alpha    0.079721  0.012142  6.5658 &lt; 2.2e-16 ***</span>
+<span class="r-out co"><span class="r-pr">#&gt;</span> tankpres_3_alpha   1.649090  0.533768  3.0895 8.586e-06 ***</span>
+<span class="r-out co"><span class="r-pr">#&gt;</span> gaspres_4_alpha   -2.050912  0.657912 -3.1173 7.203e-06 ***</span>
+<span class="r-out co"><span class="r-pr">#&gt;</span> ---</span>
+<span class="r-out co"><span class="r-pr">#&gt;</span> Signif. codes:  0 ‘***’ 0.001 ‘**’ 0.01 ‘*’ 0.05 ‘.’ 0.1 ‘ ’ 1</span>
 <span class="r-out co"><span class="r-pr">#&gt;</span> Penalized Likelihood:</span>
-<span class="r-out co"><span class="r-pr">#&gt;</span> [1] -311.157</span>
+<span class="r-out co"><span class="r-pr">#&gt;</span> [1] -311.0829</span>
 </code></pre></div>
     </div>
   </main><aside class="col-md-3"><nav id="toc"><h2>On this page</h2>
